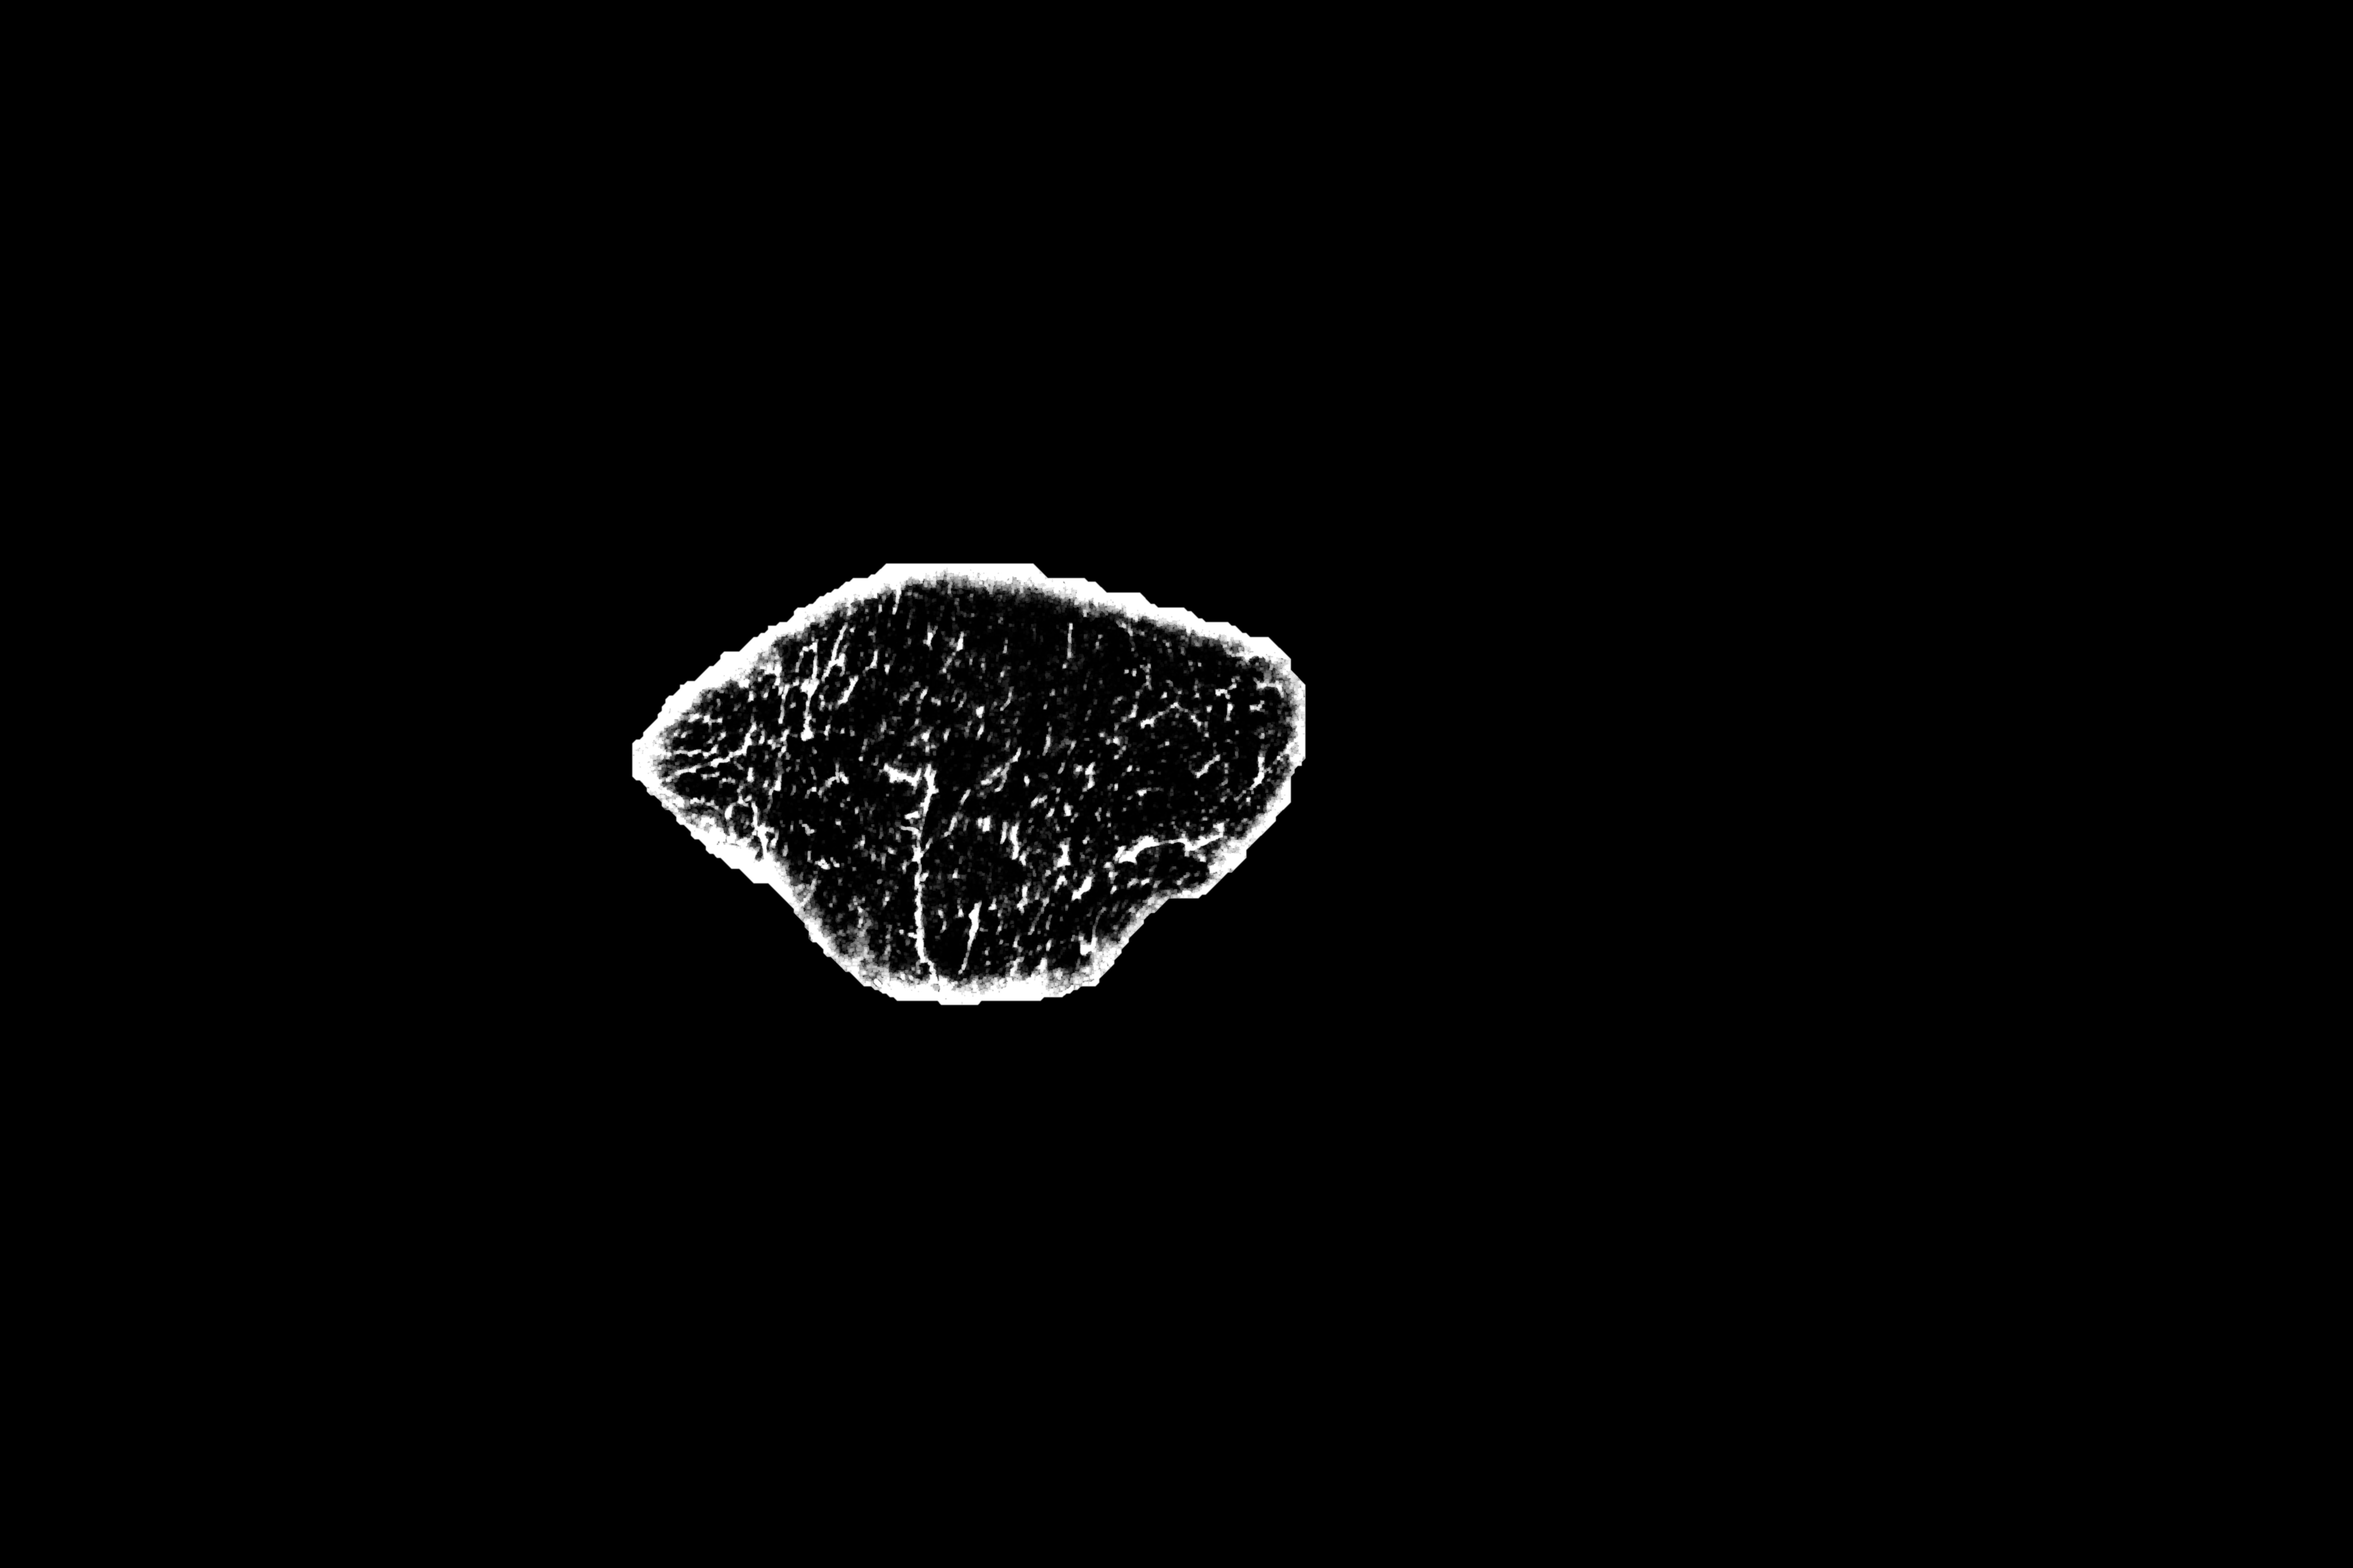
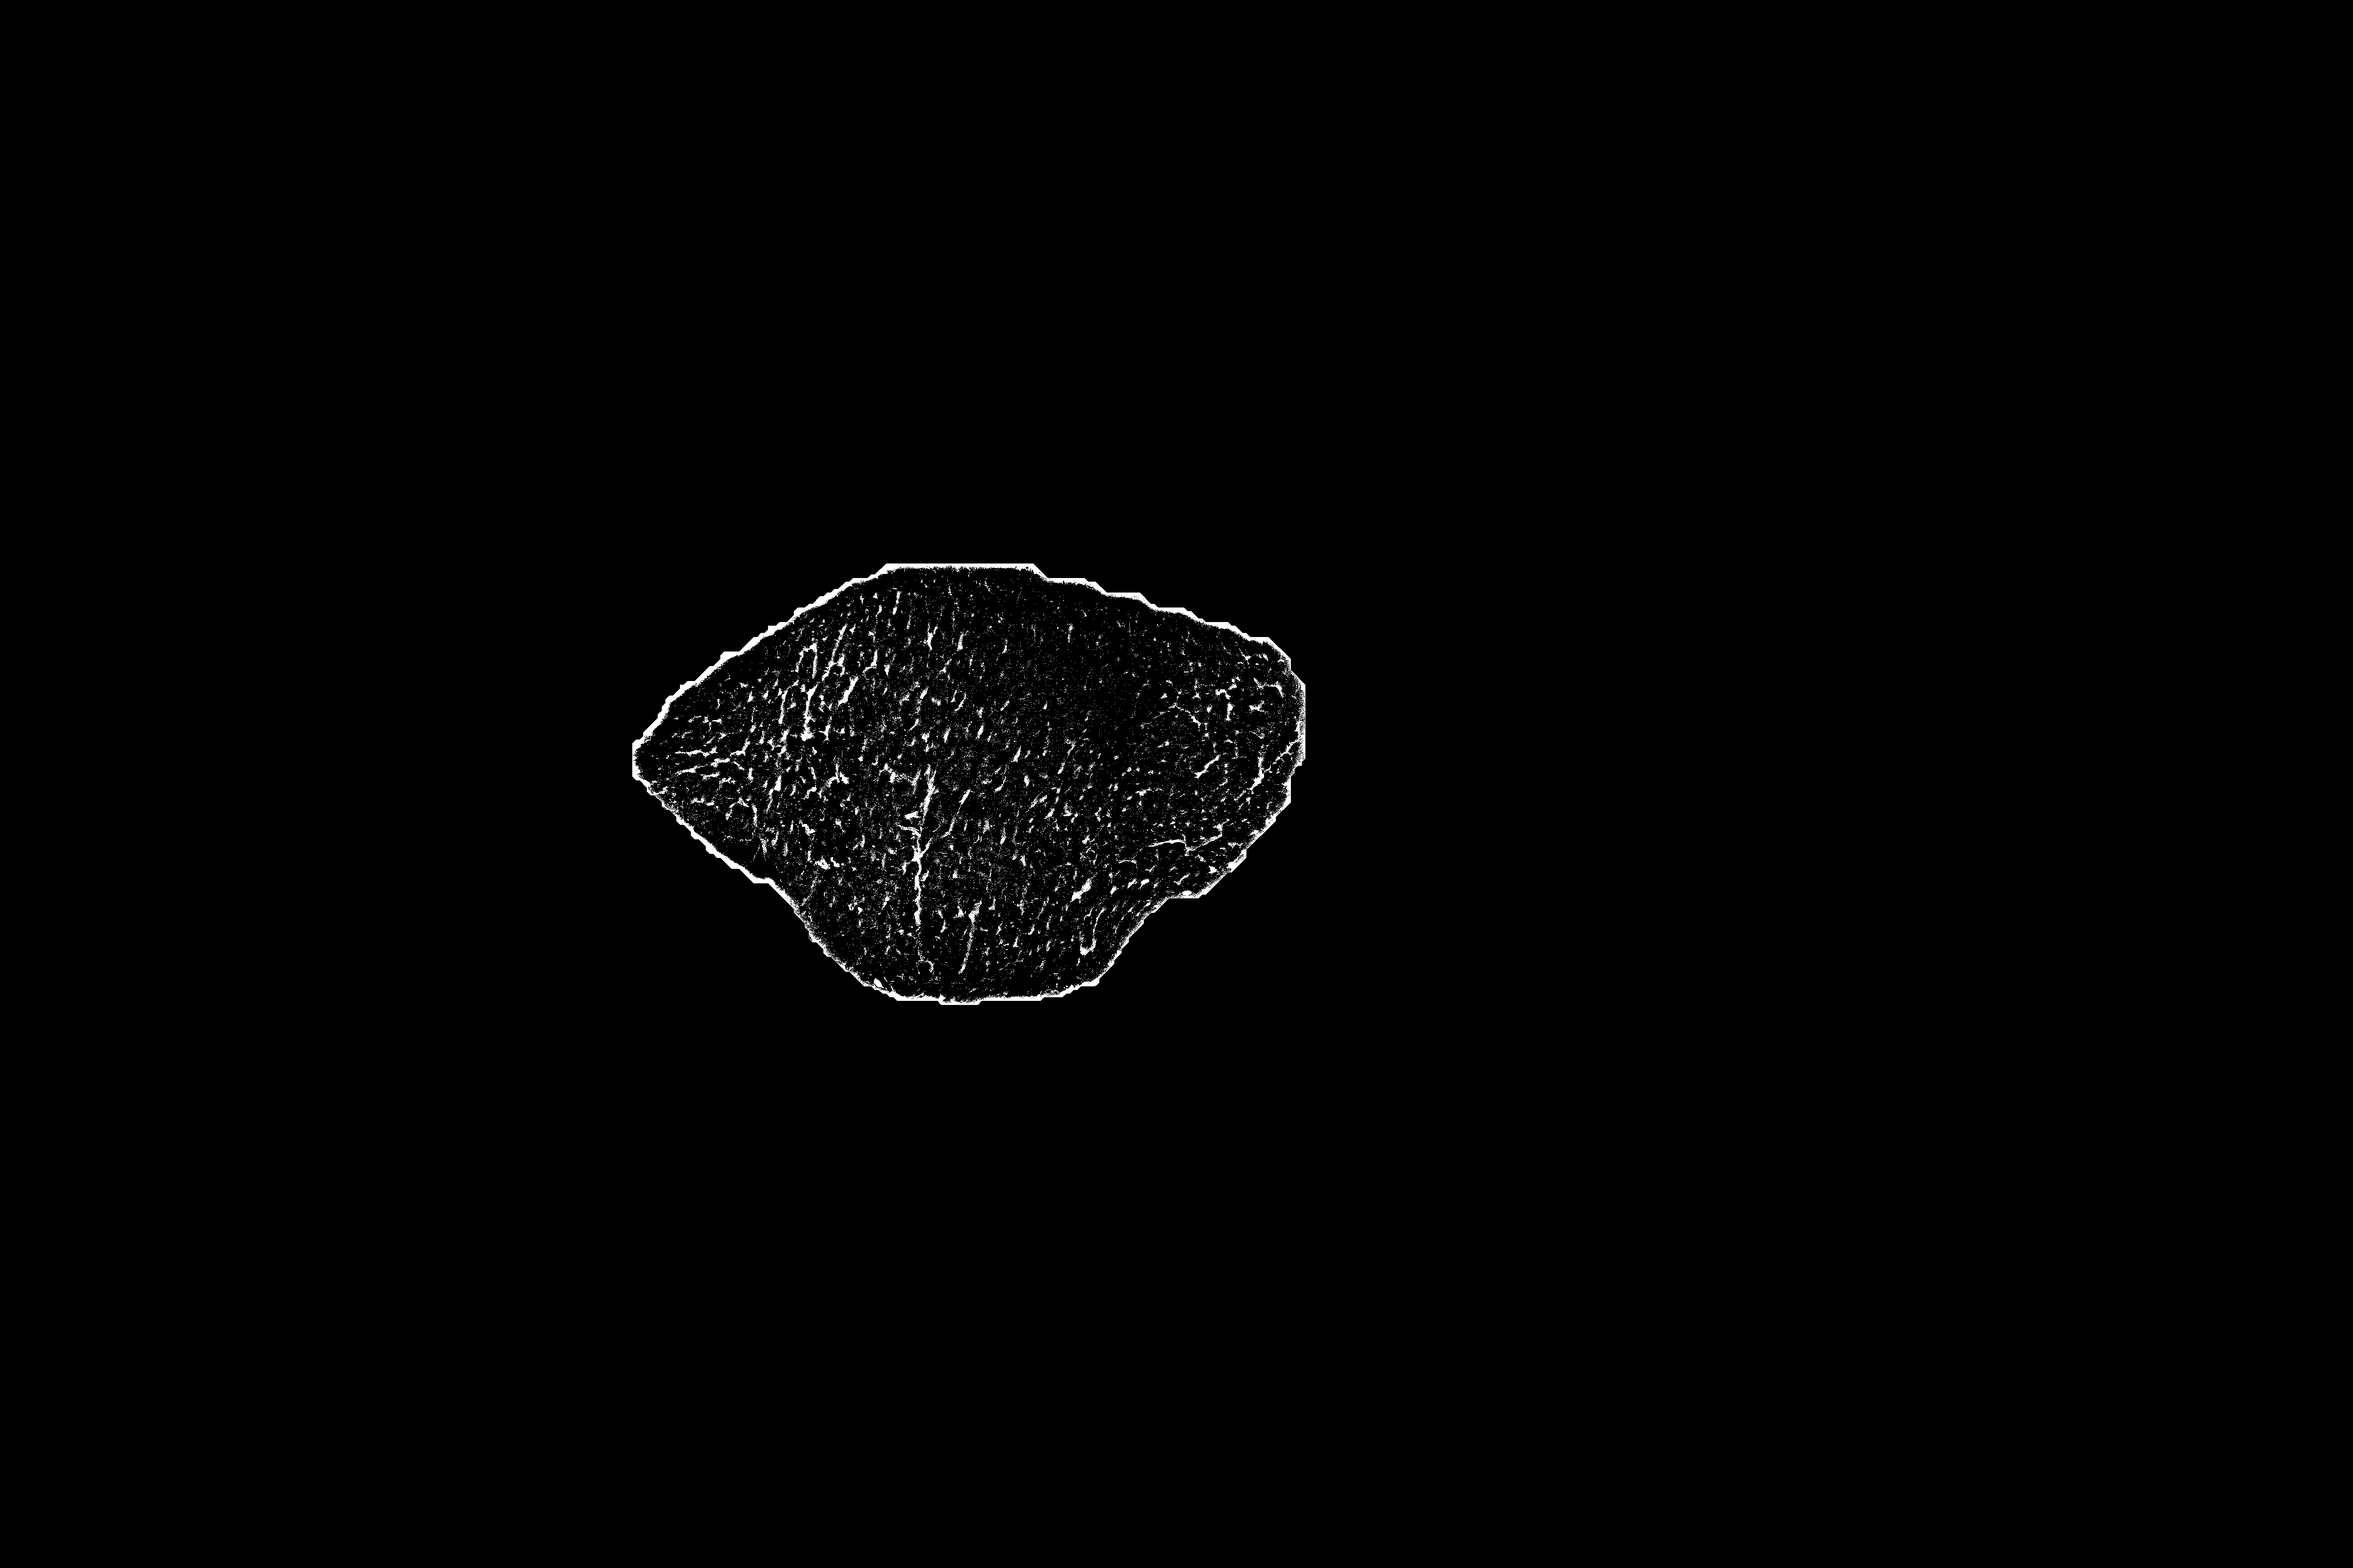
Update parameters

Changed region(s): [[0.25, 0.3438, 0.5625, 0.6562]]

diff --git a/src/utils/marbling.py b/src/utils/marbling.py
@@ -48,7 +48,6 @@ def global_threshold(image):
 def gaussian_threshold(image):
     """
     Uses Gaussian adaptive thresholding to generate a binary image.
-    (Adjust blockSize and constant as needed.)
     """
     gray_image = cv2.cvtColor(image, cv2.COLOR_BGR2GRAY)
     clahe = cv2.createCLAHE(clipLimit=0.1, tileGridSize=(8, 8))
@@ -56,7 +55,7 @@ def gaussian_threshold(image):
     binary_image = cv2.adaptiveThreshold(
         gray_image, 255, 
         cv2.ADAPTIVE_THRESH_GAUSSIAN_C,
-        cv2.THRESH_BINARY, 451, -30
+        cv2.THRESH_BINARY, 81, -36
     )
     binary_image = cv2.cvtColor(binary_image, cv2.COLOR_GRAY2BGR)
     return binary_image
@@ -122,17 +121,17 @@ def extract_marbling(enhanced_image, muscle_mask):
     The thresholding uses a Gaussian adaptive method and then restricts the output
     to only those pixels corresponding to the muscle region.
     """
-    # Use Gaussian adaptive thresholding
+    # Use Gaussian adaptive thresholding with updated parameters for higher resolution
     binary = gaussian_threshold(enhanced_image)  # Returns a BGR binary image
     binary_gray = cv2.cvtColor(binary, cv2.COLOR_BGR2GRAY)  # Convert to single-channel
     
     # Restrict thresholding to muscle pixels (mask out background)
     marbling_mask = cv2.bitwise_and(binary_gray, muscle_mask)
     
-    # Smooth and clean up the mask using Gaussian blur and morphological opening
-    marbling_mask = cv2.GaussianBlur(marbling_mask, (5, 5), 0)
-    kernel = np.ones((3, 3), np.uint8)
-    marbling_mask = cv2.morphologyEx(marbling_mask, cv2.MORPH_OPEN, kernel, iterations=2)
+    # Reduce the amount of blurring and morphological processing to preserve details
+    marbling_mask = cv2.GaussianBlur(marbling_mask, (1, 1), 0)
+    kernel = np.ones((1, 1), np.uint8)
+    marbling_mask = cv2.morphologyEx(marbling_mask, cv2.MORPH_OPEN, kernel, iterations=1)
     
     return marbling_mask
 
@@ -151,7 +150,6 @@ def process_marbling(rotated_image, muscle_mask, output_dir="output/marbling", b
     Returns:
       marbling_mask: The final marbling mask (as a single-channel image).
     """
-    # Use a default base filename if not provided
     if base_filename is None:
         base_filename = "marbling_result"
     
